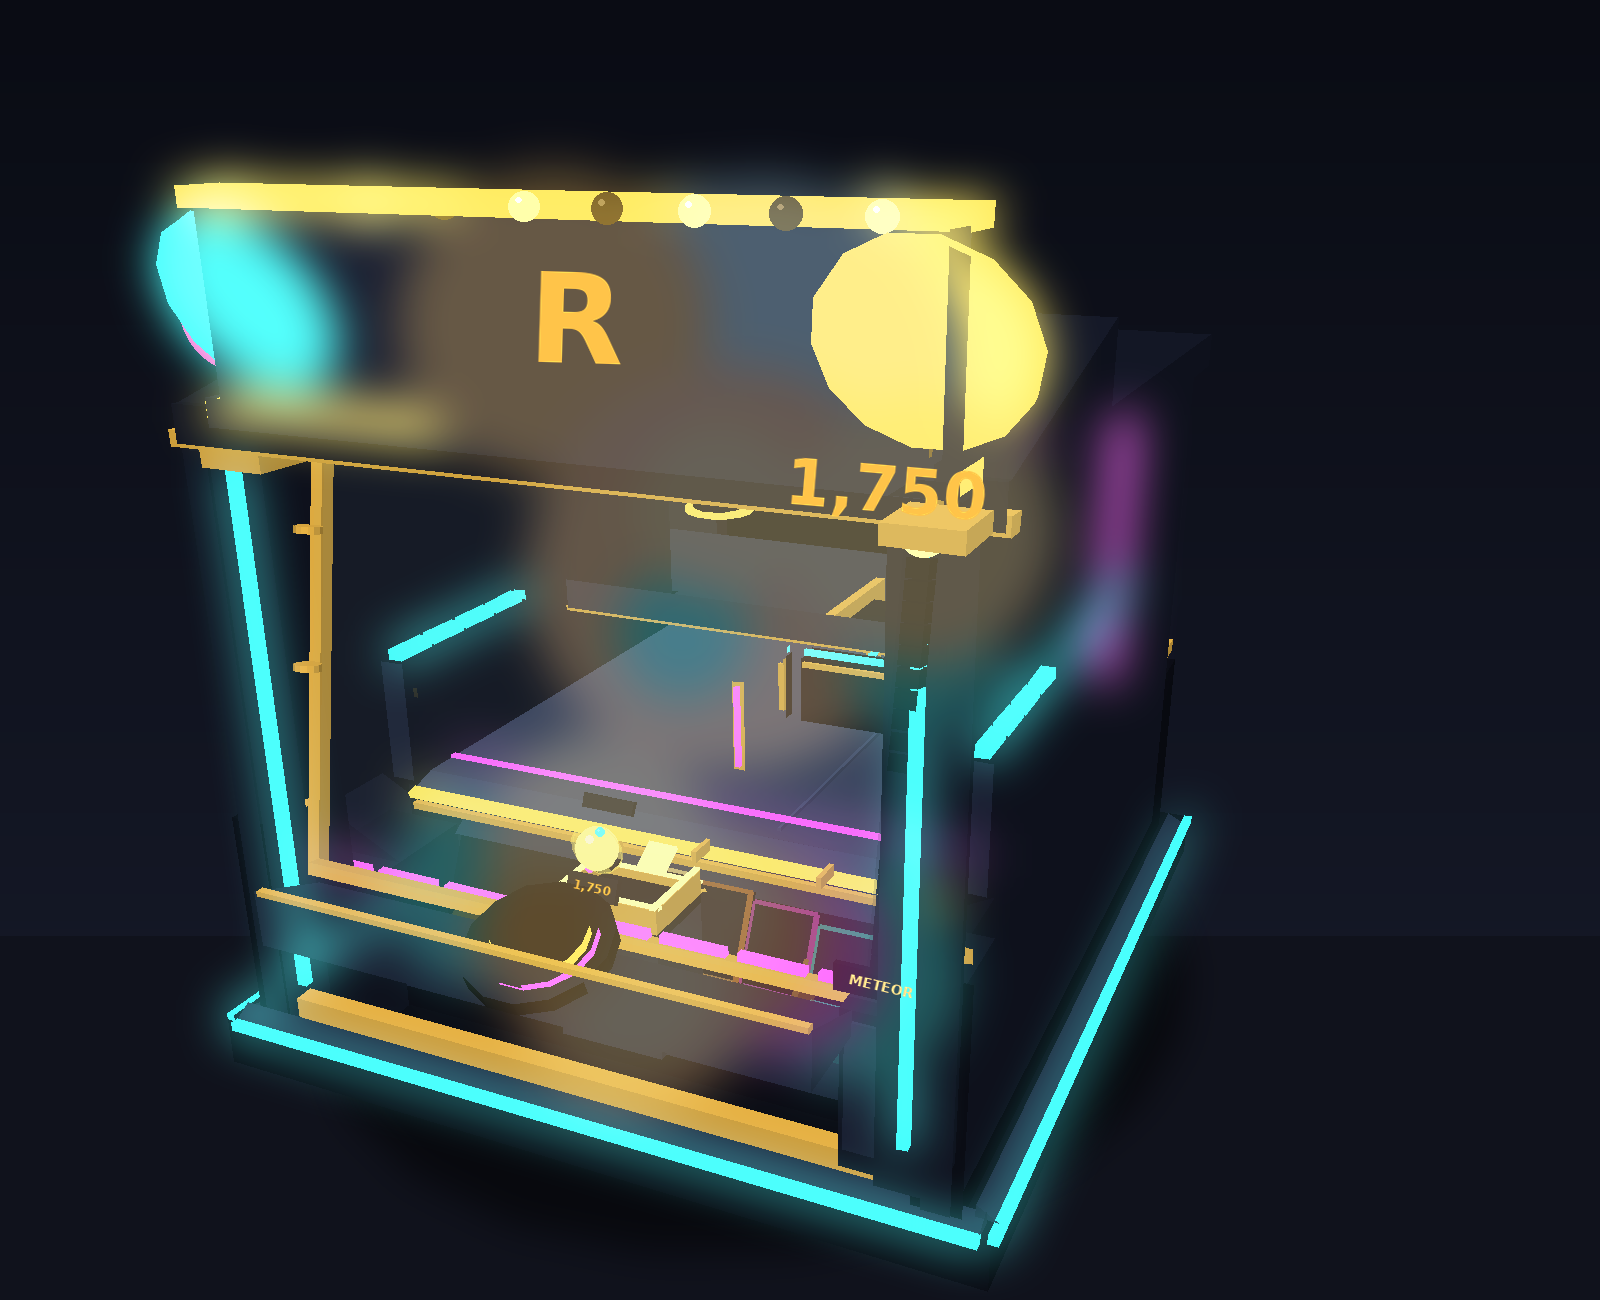
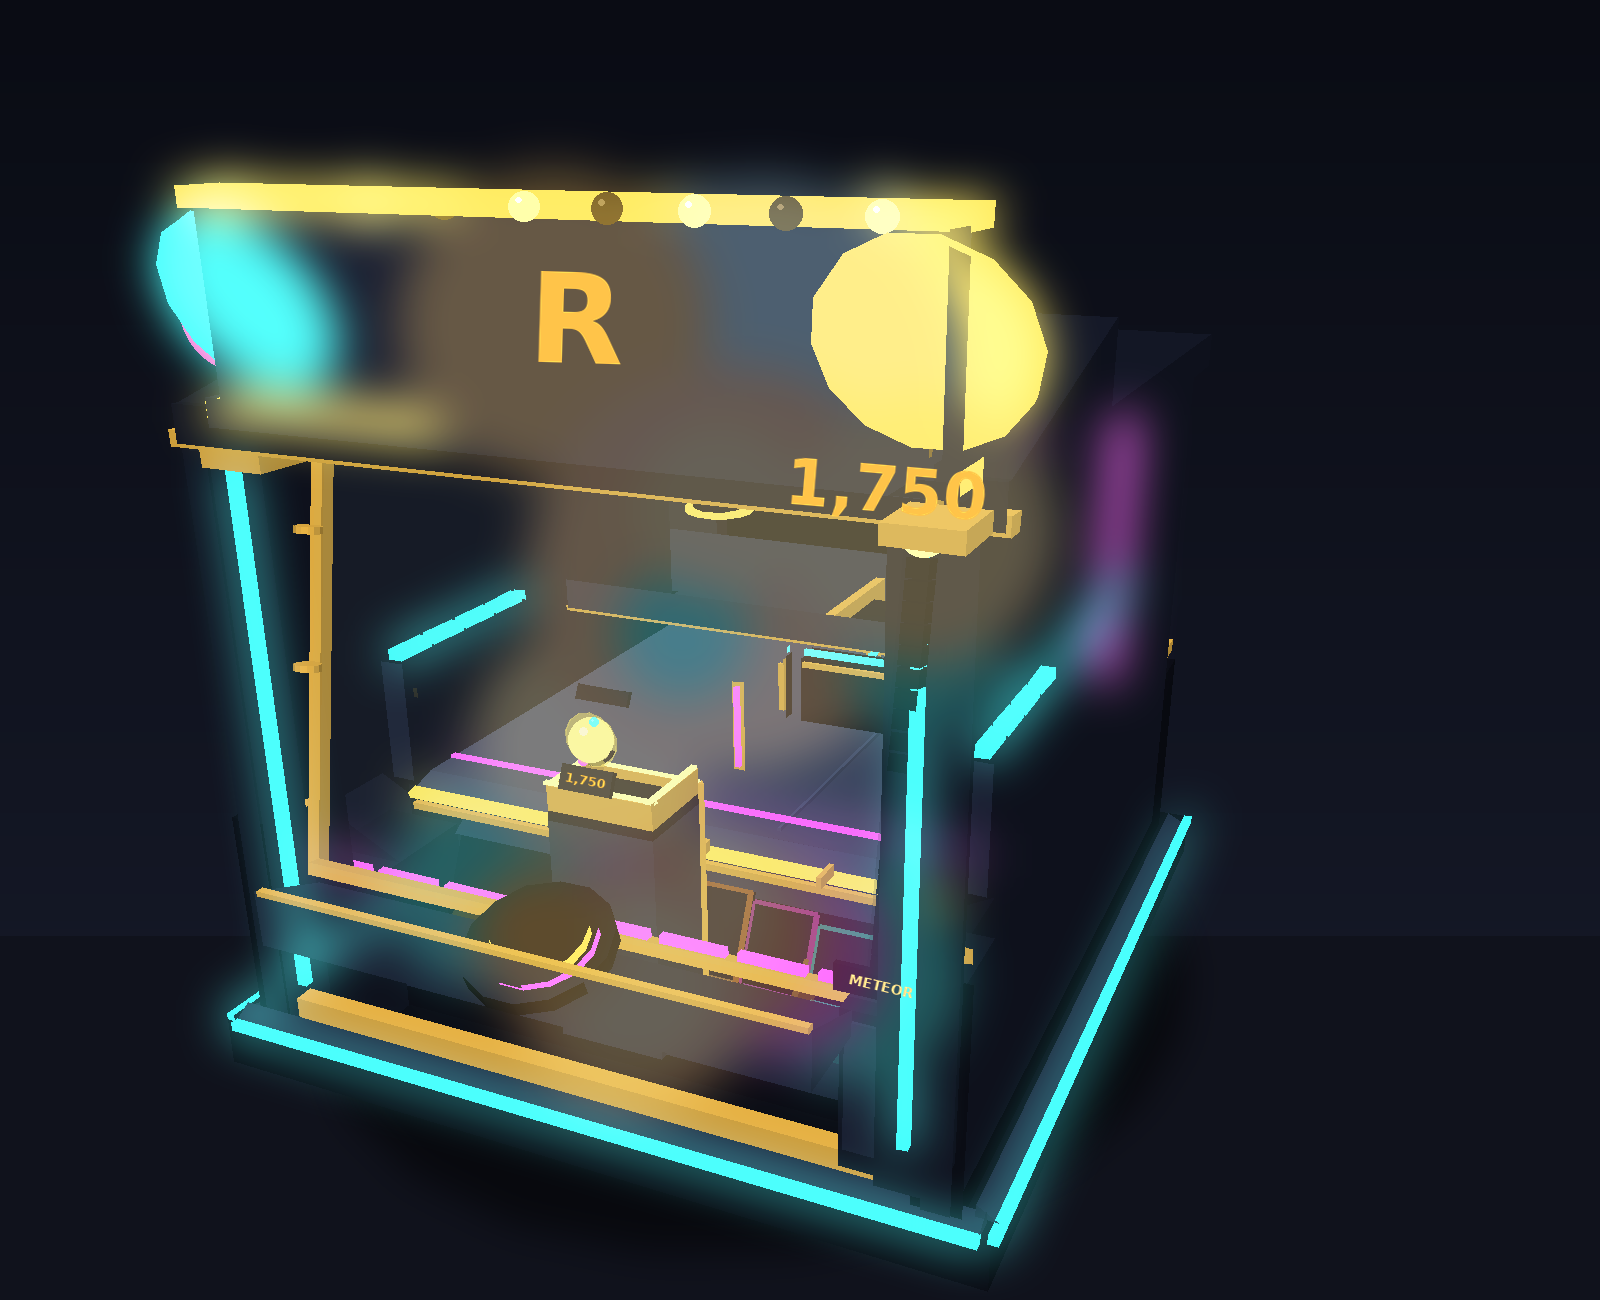
Jackpot cup and crown lifted 2.10 so the whole bowl reads above the ledge line
The previous raise (floor 4.20, rim 4.70) cleared the LedgeFillet in world
units but, sitting 1.4 studs nearer the locked camera than the lip, still
drew below the ledge line on screen. The cup now floats at floor 6.30 /
rim 6.80 (the old rim x 1.45): from the camera the front rim sits at 40.0
degrees of depression against the lip edge's 40.4 and the fillet's 41.1,
so the entire bowl opens above the ledge. The JACKPOT core crown rides up
with it, its pot plate still 0.11 clear of the rim.

Feed changes with height: nothing pushed off the lip can climb 1.5 studs,
so the tongue ramp is gone and only a bounce can score - a fresh drop
hopping forward off the front pile over the low back lip; overshoots meet
the FrontWall backboard (its bottom now rides the rim) and drop in. The
pedestal and the V prow run up to the floor so a centre piece coming off
the lip is split into the 25X channels instead of wedging on the
pedestal's back face. Every cup part derives from one CUP_FLOOR number.

tools/render_preview.py gains a "cam" mode that renders from the game's
locked camera; docs previews refreshed, docs/pusher-cam.png added.

Claude-Session: https://claude.ai/code/session_01C3XYi3TnMKkLAQUpG1YzCK

Changed region(s): [[0.2812, 0.4923, 0.4688, 0.7385]]

diff --git a/tools/render_preview.py b/tools/render_preview.py
@@ -6,7 +6,7 @@ perspective view with PIL: painter's algorithm, flat lambert shading, additive
 glow for Neon parts and lights, alpha compositing for Glass, and text drawn
 onto SurfaceGui faces. Purpose: see the cabinet before Studio does.
 
-Usage: render_preview.py parts.json out.png [front]
+Usage: render_preview.py parts.json out.png [front|cam]
 """
 import json, math, sys
 from PIL import Image, ImageDraw, ImageFilter, ImageFont, ImageChops
@@ -98,9 +98,15 @@ def shade(color, normal, neon):
         f = 0.48 + 0.56*lam
     return (min(255,int(r*f)), min(255,int(g*f)), min(255,int(b*f)))
 
-def render(parts, out_path, front=False):
-    cam = Camera((-13, 18, -28), (0, 5.2, 1.5), 1500) if not front else \
-          Camera((0, 8.6, -48), (0, 8.3, 0), 2050)
+def render(parts, out_path, front=False, view=None):
+    # "cam" = the game's locked camera (GameConfig-free copy of
+    # PusherMachine cfg.camEye / cfg.camLook): what the player actually sees.
+    if view == "cam":
+        cam = Camera((0, 12.2, -13.8), (0, 3.7, 2.2), 1400)
+    elif front:
+        cam = Camera((0, 8.6, -48), (0, 8.3, 0), 2050)
+    else:
+        cam = Camera((-13, 18, -28), (0, 5.2, 1.5), 1500)
 
     img = Image.new("RGB", (W, H))
     d = ImageDraw.Draw(img)
@@ -220,4 +226,5 @@ def render(parts, out_path, front=False):
 
 if __name__ == "__main__":
     parts = json.load(open(sys.argv[1]))
-    render(parts, sys.argv[2], front=(len(sys.argv) > 3 and sys.argv[3] == "front"))
+    mode = sys.argv[3] if len(sys.argv) > 3 else ""
+    render(parts, sys.argv[2], front=(mode == "front"), view=(mode if mode in ("cam",) else None))

diff --git a/README.md b/README.md
@@ -50,12 +50,14 @@ headlessly:
 lua5.1 tools/dump_parts.lua > parts.json          # runs the real builder against a Roblox stub
 python3 tools/render_preview.py parts.json hero.png        # shaded 3/4 view
 python3 tools/render_preview.py parts.json front.png front  # straight-on view
+python3 tools/render_preview.py parts.json cam.png cam      # the game's locked camera
 ```
 
 `tools/roblox_stub.lua` mocks just enough of the Roblox API (Instance tree, CFrame math,
 Enums) to execute `PusherMachine.build()` outside Studio; the renderer draws the captured
 geometry with flat shading, neon glow and glass transparency. Renders of the current
-geometry live in `docs/pusher-hero.png` and `docs/pusher-front.png`. Two known renderer
+geometry live in `docs/pusher-hero.png`, `docs/pusher-front.png` and `docs/pusher-cam.png`
+(the last one is what the player sees — the locked camera's own eye and look point). Two known renderer
 approximations: glow bleeds through walls (Neon doesn't emit light in Studio), and
 SurfaceGui text draws on top rather than being occluded.
 
